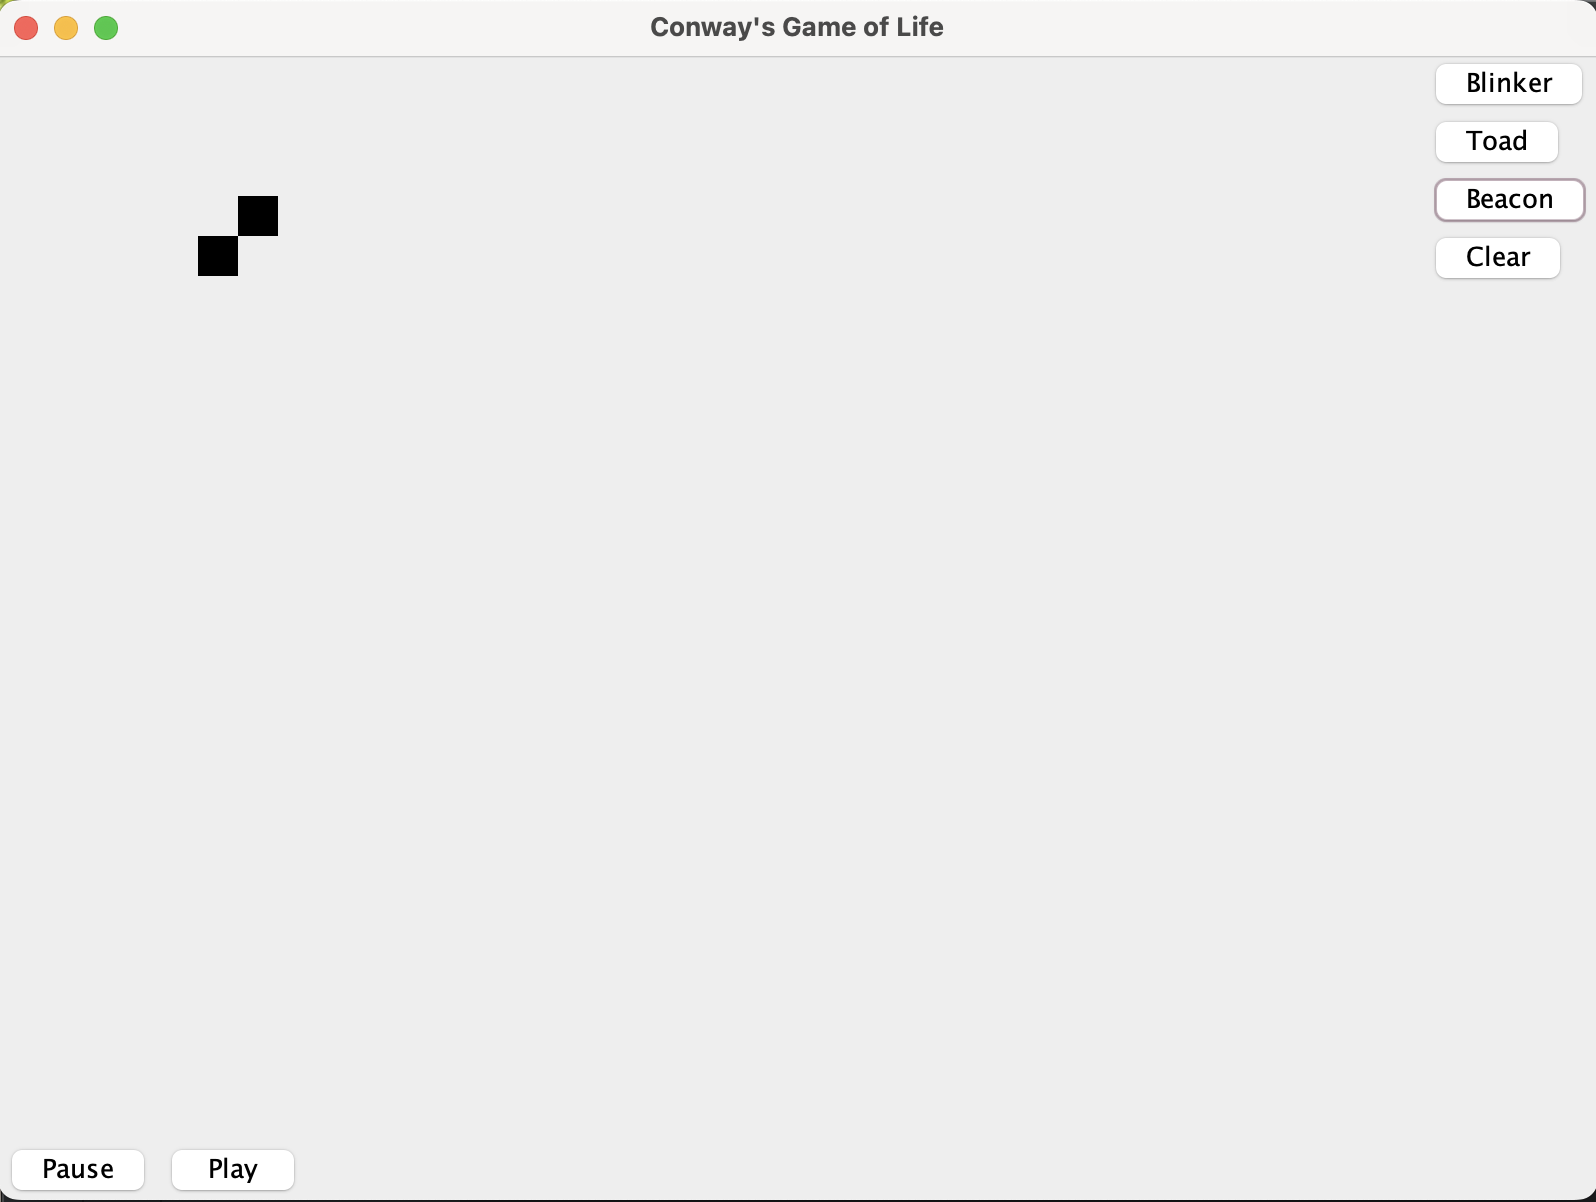
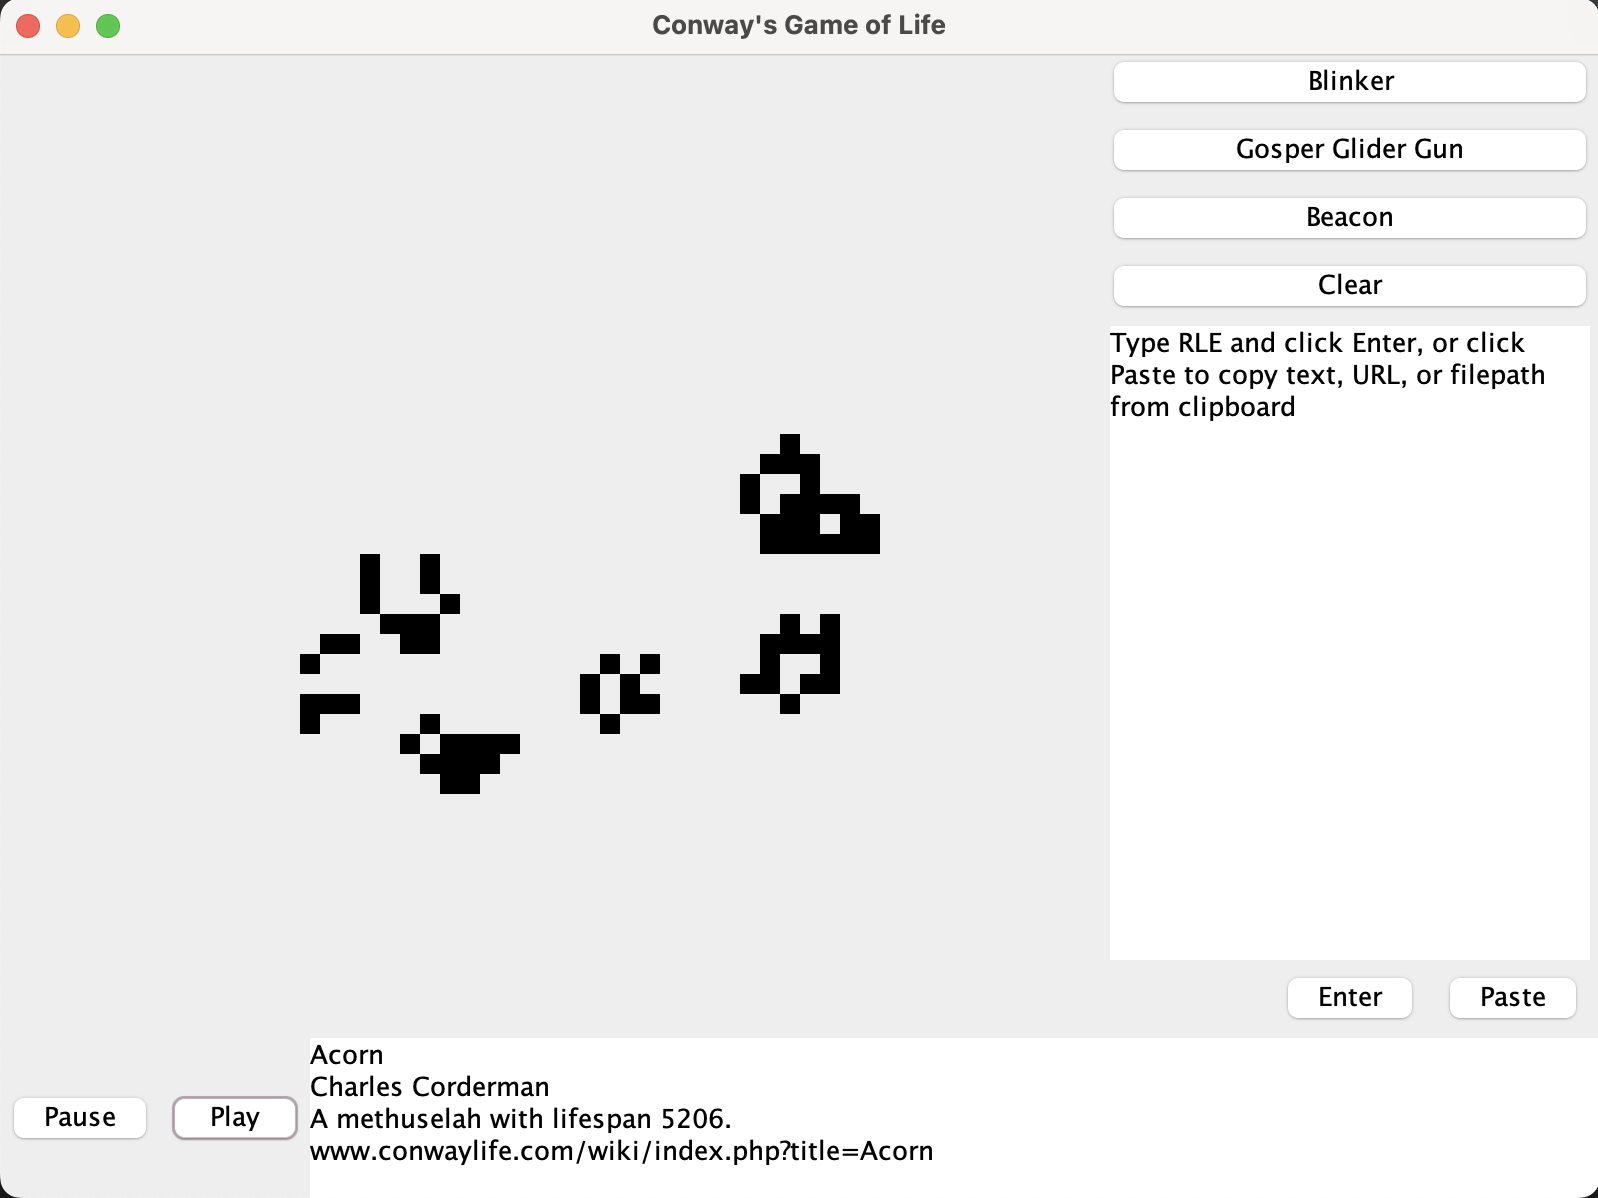
centerGrid

diff --git a/src/main/java/green/conway/Grid.java b/src/main/java/green/conway/Grid.java
@@ -83,25 +83,24 @@ public class Grid {
     }
 
     public void centerGrid(Grid newGrid) {
-        int startX = (newGrid.getWidth() - this.getWidth()) / 2;
-        int startY = (newGrid.getHeight() - this.getHeight()) / 2;
+        int startX = (this.getWidth() - newGrid.getWidth()) / 2;
+        int startY = (this.getHeight() - newGrid.getHeight()) / 2;
 
         copyGrid(newGrid, startY, startX);
     }
 
-    private void copyGrid(Grid target, int startY, int startX) {
-        int endHeight = Math.min(getHeight(), target.getHeight() - startY);
-        int endWidth = Math.min(getWidth(), target.getWidth() - startX);
+    private void copyGrid(Grid orig, int startY, int startX) {
+        int endHeight = Math.min(orig.getHeight(), getHeight() - startY);
+        int endWidth = Math.min(orig.getWidth(), getWidth() - startX);
 
-            for (int y = 0; y < endHeight; y++) {
-                for (int x = 0; x < endWidth; x++) {
-                    if(grid[y][x] == 1) {
-                        target.setAlive(y + startY, x + startX);
-                    }
+        for (int y = 0; y < endHeight; y++) {
+            for (int x = 0; x < endWidth; x++) {
+                if(orig.isAlive(y, x)) {
+                    setAlive(y + startY, x + startX);
                 }
             }
-
-    }
+        }
+}
 
 
     public void clearGrid() {

diff --git a/src/main/java/green/conway/LifeFrame.java b/src/main/java/green/conway/LifeFrame.java
@@ -65,6 +65,9 @@ public class LifeFrame extends JFrame {
 
         JTextArea textInput = new JTextArea(20, 20);
         textInput.setLineWrap(true);
+        textInput.setWrapStyleWord(true);
+        textInput.setText("Type RLE and click Enter, or click Paste to copy text, " +
+                "URL, or filepath from clipboard");
 
         JPanel ebPanel = new JPanel(new FlowLayout(FlowLayout.RIGHT));
         JButton enterButton = new JButton("Enter");
@@ -153,7 +156,7 @@ public class LifeFrame extends JFrame {
     private void centerGrid() {
         Grid newGrid = new Grid((int)(lifeComponent.getHeight() / CELLSIZE * SCALE),
                 (int)(lifeComponent.getWidth() / CELLSIZE * SCALE));
-        grid.centerGrid(newGrid);
+        newGrid.centerGrid(grid);
         this.grid = newGrid;
         lifeComponent.resetGrid(grid);
     }

diff --git a/src/main/java/green/conway/RleParser.java b/src/main/java/green/conway/RleParser.java
@@ -13,16 +13,6 @@ public class RleParser {
 
     }
 
-    public int[][] parse(URL url) {
-        //convert contents to string
-        return parse(url.toString());
-    }
-
-    public int[][] parse(Path filePath) {
-        //convert contents to string
-        return parse(filePath.toString());
-    }
-
     public int[][] parse(String rle) {
         String[] lines = rle.split("\n");
 

diff --git a/src/test/java/green/conway/GridTest.java b/src/test/java/green/conway/GridTest.java
@@ -59,7 +59,7 @@ public class GridTest {
         grid.setAlive(2, 1);
 
         Grid target = new Grid(5, 3);
-        grid.centerGrid(target);
+        target.centerGrid(grid);
 
         String actual = target.toString();
 
